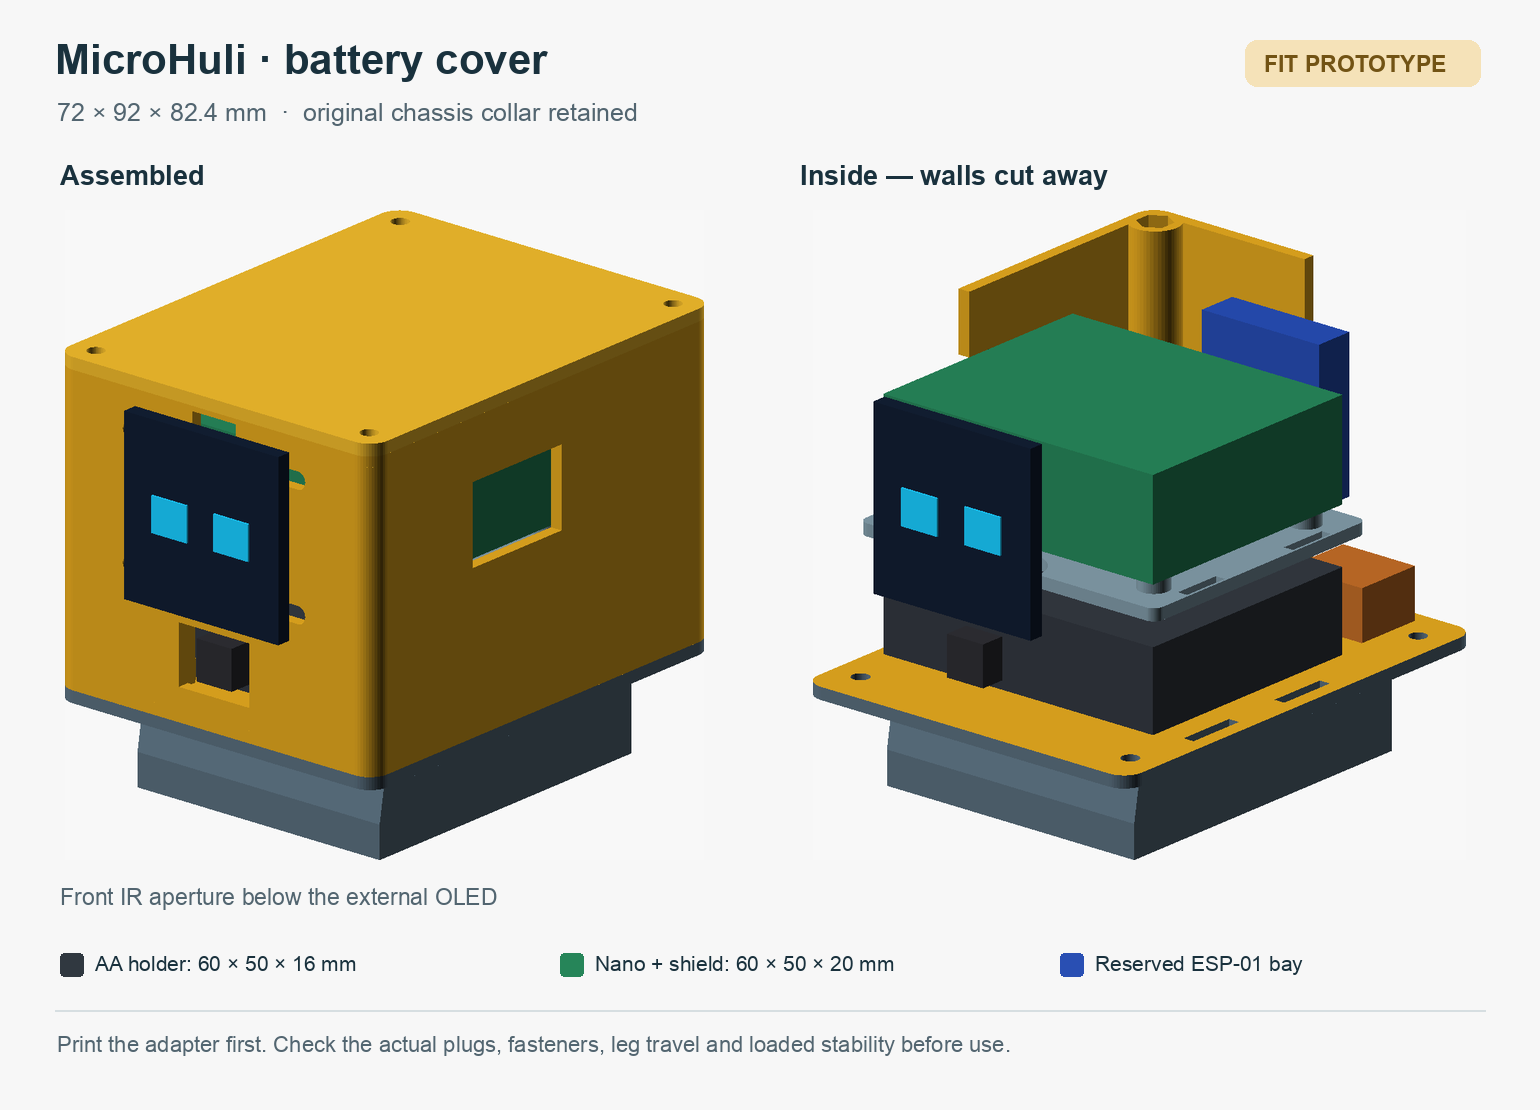
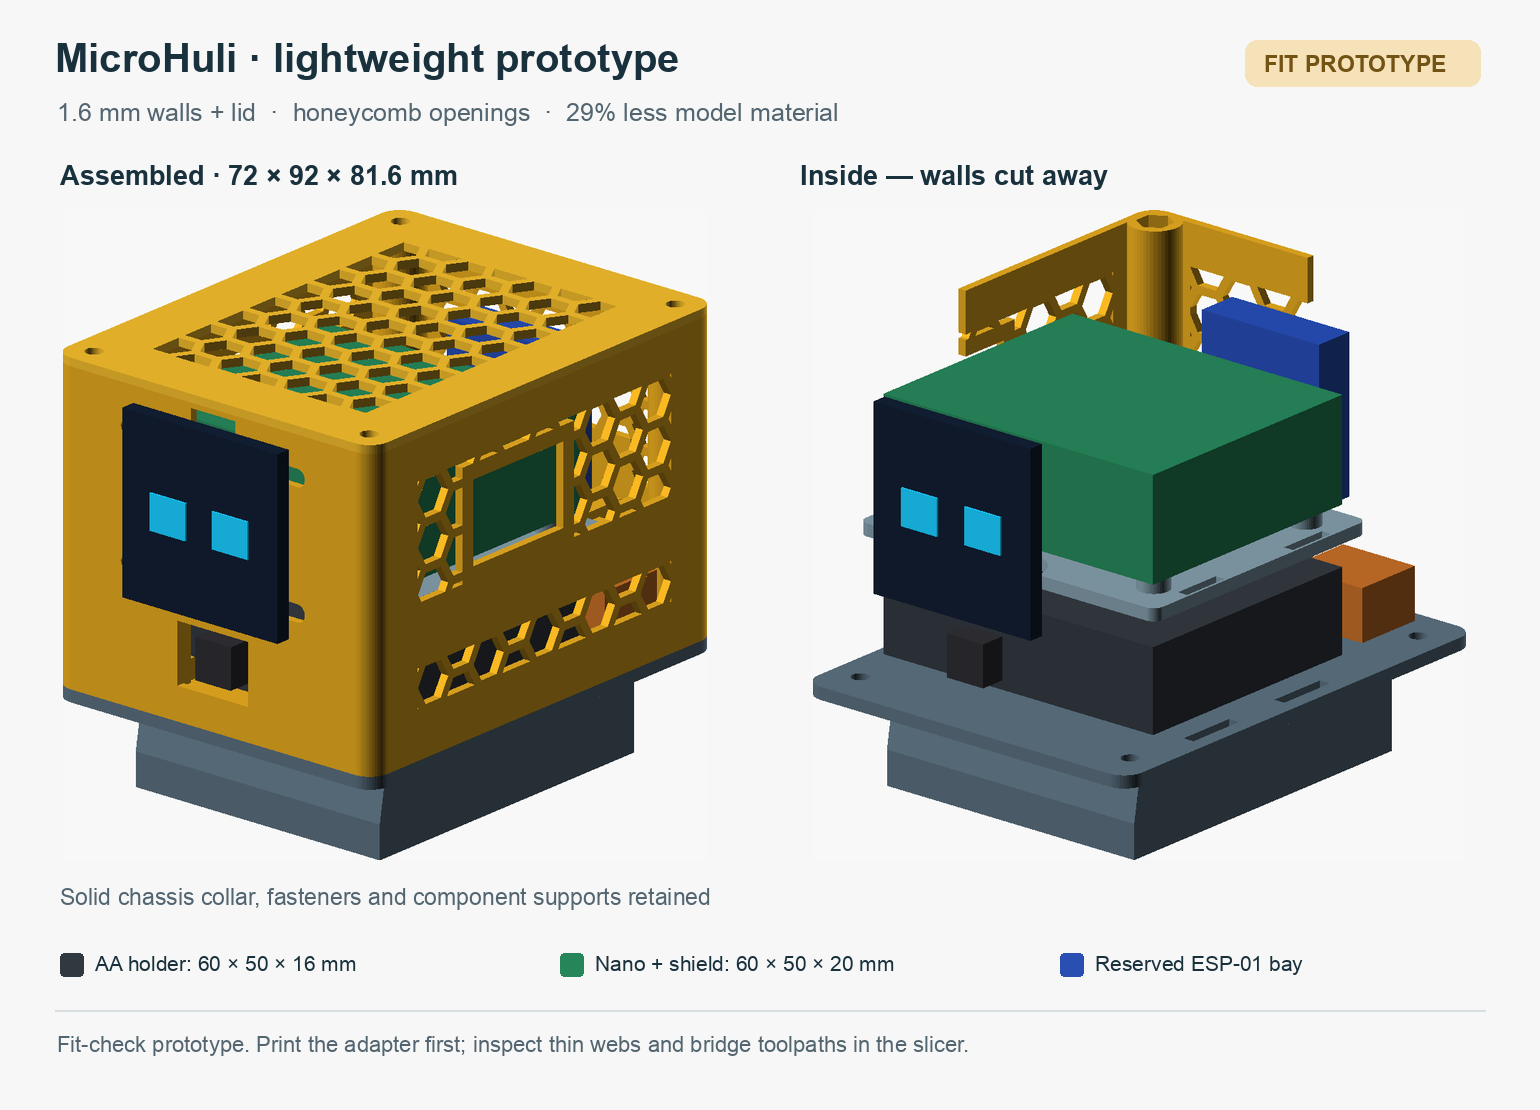
feat: lighten MicroHuli prototype with thin honeycomb panels

diff --git a/hardware/MicroHuli/enclosure/build.py b/hardware/MicroHuli/enclosure/build.py
@@ -134,7 +134,7 @@ def main():
     package(meshes, output / "MicroHuli_cover_plate.3mf")
     if args.previews:
         for name in ("assembly", "inside", "plate"):
-            subprocess.run([openscad, "-o", str(output / f"{name}.png"), "--imgsize=1400,1200", "--colorscheme=Tomorrow", "--camera=160,-190,135,0,0,40", "--viewall", "--autocenter", "--projection=o", "-D", f'part="{name}"', str(ROOT / "cover.scad")], check=True, capture_output=True, timeout=120)
+            subprocess.run([openscad, "--render", "-o", str(output / f"{name}.png"), "--imgsize=1400,1200", "--colorscheme=Tomorrow", "--camera=160,-190,135,0,0,40", "--viewall", "--autocenter", "--projection=o", "-D", f'part="{name}"', str(ROOT / "cover.scad")], check=True, capture_output=True, timeout=120)
     print(f"Exports: {output}")
 
 

diff --git a/hardware/MicroHuli/enclosure/README.md b/hardware/MicroHuli/enclosure/README.md
@@ -8,7 +8,7 @@ positions or circuit behavior.
 
 ![Assembled cover and component layout](preview.png)
 
-The printed assembly is **72 × 92 × 82.4 mm**, excluding the external OLED,
+The printed assembly is **72 × 92 × 81.6 mm**, excluding the external OLED,
 fastener heads and cables. The existing cover was approximately 55 × 68 × 31 mm.
 The lower **18 mm** of its original, unscaled shell is retained in a chassis
 adapter. Above it, the holder sits below a removable controller tray. The IR
@@ -18,6 +18,26 @@ Colored blocks in the preview are component envelopes; only the battery-holder
 and populated-shield dimensions were supplied by the owner. The OLED, receiver
 and future electronics are illustrative, not measured part models.
 
+## Lightweight prototype
+
+The default variant uses **1.6 mm side/front/rear walls and a 1.6 mm lid**.
+The floor, adapter flange and controller tray stay 2.4 mm thick. Honeycomb
+openings are 7 mm across flats with nominal 1.6 mm webs. The side/rear panels,
+lid, central battery floor and tray are perforated; an internal adapter window
+removes the redundant lower plate beneath the battery floor. Solid frames,
+corner pillars, rail/shelf attachments, OLED/IR mounts and strap routes remain.
+The original lower chassis collar is unscaled and unperforated.
+
+Total solid CAD material is **81.33 cm³**, down from **115.11 cm³** for the first
+cover, a **29.3% reduction**. This is geometry volume, not a measured filament
+weight or print-time saving; slicer walls, infill and supports affect actual PLA
+use. This variant is intended for first fit checks, not impact/strength testing.
+
+In `cover.scad`, `honeycomb=false` closes the patterned openings and adapter
+window while keeping the current thin-wall settings. Wall/lid thickness and
+hex opening/web size are separate parameters. Hex webs and walls must remain
+at least 1.6 mm in this prototype. Rebuild after any changes.
+
 ## Parts and assembly
 
 | Part      | Print envelope, mm | Purpose                                                             |
@@ -25,7 +45,7 @@ and future electronics are illustrative, not measured part models.
 | `adapter` | 72 × 92 × 20.4     | Original lower shell profile plus flange; test on the chassis first |
 | `tub`     | 72 × 92 × 59.6     | Battery pocket, controller rails, IR ties and future-module shelf   |
 | `tray`    | 66 × 56 × 5.4      | Removable shield support with 3 mm insulating pads and tie slots    |
-| `lid`     | 72 × 92 × 4.0      | Removable top, including a 1.6 mm locating skirt                    |
+| `lid`     | 72 × 92 × 3.2      | Removable top, including a 1.6 mm locating skirt                    |
 
 1. Print **only the adapter first**, in the supplied orientation, and try it on
    the existing chassis with power disconnected. Keep the existing retention
@@ -112,11 +132,15 @@ edges, parts not on the bed, and overlapping print-plate bounds. Use `--output D
 Edit `cover.scad` for component sizes, wire clearance, service openings and OLED
 slots; re-export and review the plate arrangement after parameter changes.
 
-Start with 0.2 mm layers, four walls and moderate infill in a suitable material.
+Start with 0.2 mm layers and review the 1.6 mm wall/web toolpaths with your
+nozzle and extrusion width. Additional infill has little effect on the open
+honeycomb panels; do not add solid skins that close the openings. Keep
+moderate infill for the remaining thick supports.
 The adapter prints with its flange on the bed; the tub floor, tray bottom and
 lid top face also lie on the bed in the exports. Use the supplied orientation,
 not the assembled orientation. Rails and rear-shelf gussets are sloped; the IR
-tabs and service-port roofs may need local supports or bridge tuning. Inspect
+tabs, service-port roofs and vertical honeycomb tops may need local supports
+or bridge tuning. Inspect
 those areas in the slicer. No slicing or physical print has been performed.
 
 ## Verification and limits

diff --git a/tasks/microhuli-import.md b/tasks/microhuli-import.md
@@ -18,11 +18,18 @@ Copy the supplied robot project into OpenHuli, rename it MicroHuli, and adapt it
 - Four separable parts: chassis adapter, upper tub, removable controller tray, removable lid. Battery low, controller above, front IR aperture, external OLED slots, rear future ESP-01/support-electronics bay.
 - Connector locations, OLED hole spacing, receiver-board geometry, printed collar fit, loaded gait/centre of gravity and Wi-Fi performance remain physical fit checks. Use adjustable slots/ties rather than inventing fixed board mounting holes.
 - CAD/print exports are generated locally; commit the editable source, generation/check script and reference previews.
-- Assembled plastic envelope: 72 × 92 × 82.4 mm. Holder pocket 62 × 52 mm, controller tray 66 × 56 mm with 3 mm insulating pads. Approximately 6 mm below tray and 9.8 mm above populated shield for clearance; actual plugs/wiring remain to check.
+- Assembled plastic envelope: 72 × 92 × 81.6 mm after the lightweight follow-up. Holder pocket 62 × 52 mm, controller tray 66 × 56 mm with 3 mm insulating pads. Approximately 6 mm below tray and 9.8 mm above populated shield for clearance; actual plugs/wiring remain to check.
 - Cover verification: `python3 hardware/MicroHuli/enclosure/build.py --previews` passes for all four parts (closed, consistently wound, positive volume, one connected component and Z=0 print placement). 3MF archive integrity, millimetre units and four separate build objects pass. QIDI Studio CLI `--info` imports all four objects successfully; no slicing or printer upload. CAD previews rendered and visually inspected.
 - Independent OpenSCAD/trimesh checks: ten assembled-part/component intersections have no volume above 0.01 mm³; original collar bounds/perimeters agree at Z=0.1, 5, 10, 15 and 17.5 mm within 0.001 mm. A discovered connector-passage overlap below the cut plane was corrected before final verification. A future power-board envelope was moved clear of the rear shelf gusset.
 - `python3 -m py_compile hardware/MicroHuli/enclosure/build.py`, changed Markdown formatting/local links and diff whitespace checks pass. No application/firmware behavior changed in this follow-up, so runtime suites were not rerun. No physical print or firmware upload.
 - Generated four STL files, a geometry 3MF plate (156 × 196 mm) and a downloadable ZIP under ignored `hardware/MicroHuli/enclosure/exports/`. Print adapter first; assembly notes specify hardware, support inspection and unmeasured connector/OLED/IR/RF checks.
+
+## Lightweight prototype follow-up
+
+- User requested a thinner first prototype with a honeycomb pattern to save PLA. Wall/lid thickness reduced from 2.4 to 1.6 mm; load-bearing floor/flange/tray remain 2.4 mm.
+- Add 7 mm across-flats hex openings with 1.6 mm nominal webs to side/rear panels, lid, battery floor and tray; retain solid frames, fastener pillars, support attachment bands and the original lower collar. Window the redundant adapter plate inside the hollow collar.
+- Default total solid model volume: 81,325.45 mm³ versus 115,108.17 mm³ before this change, down 29.35%. Actual sliced filament usage is not measured.
+- All four mesh checks and ten independent assembled-part/component collision checks pass; original collar checks still pass at five heights. Preview generation uses full geometry rendering for the more complex perforated model. Final previews visually inspected; QIDI imports four manifold objects. Final 3MF/ZIP integrity, Python compilation, changed Markdown/local links and diff checks pass. No physical print or slicing, and no application/firmware behavior changes.
 
 ## Verification
 
